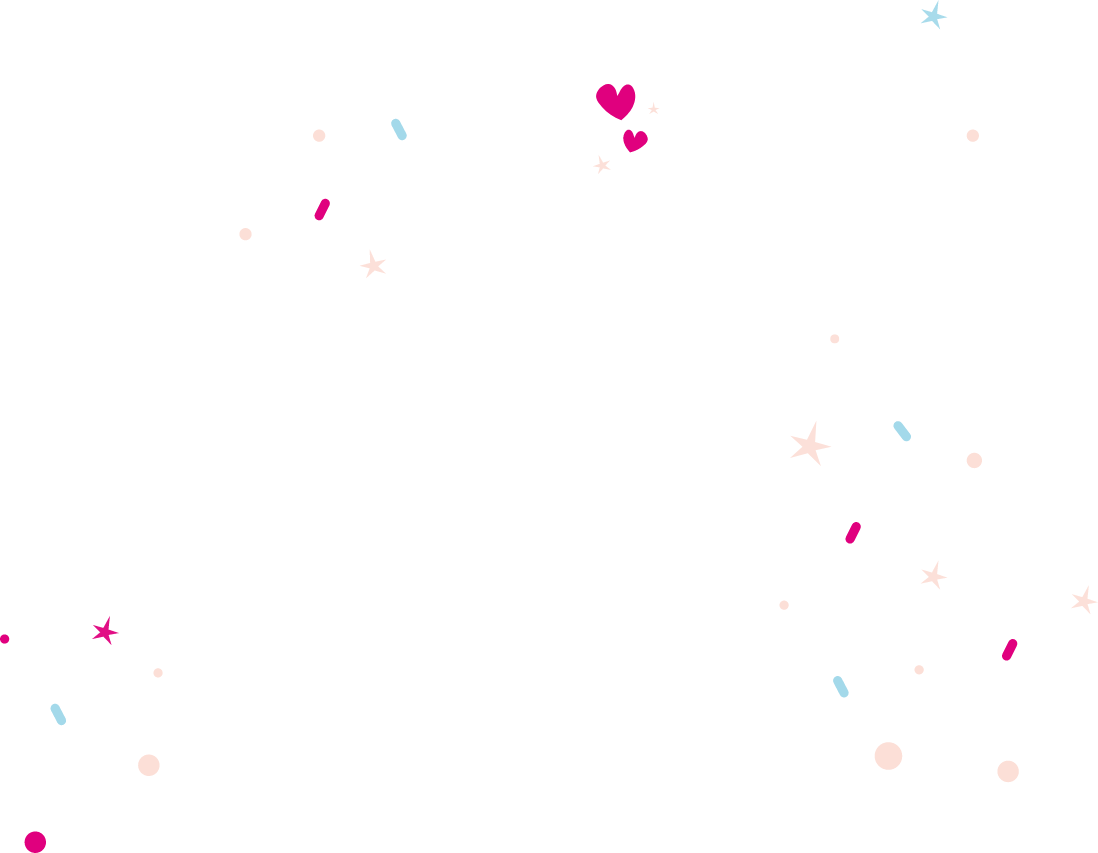
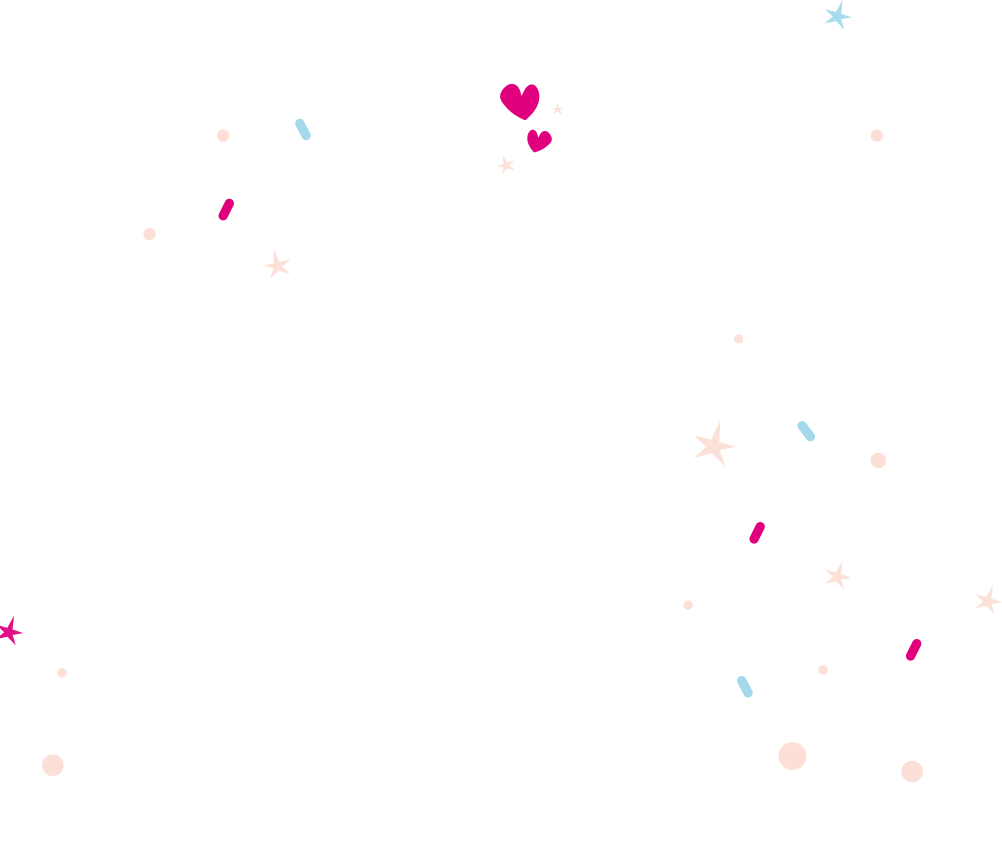
sdfsd

diff --git a/resources/sass/page/_landing.scss b/resources/sass/page/_landing.scss
@@ -421,8 +421,8 @@
             .l-wrapper__bg {
                 background-image: url("../../../public/img/bg.png");
                 background-repeat: no-repeat;
-                background-position: -8.5% 49%;
-                background-size: auto;
+                background-position: 0.5% 12%;
+                background-size: 55%;
                 width: 100%;
                 .l-types__wrapper {
                     position: relative;

diff --git a/public/css/app.css b/public/css/app.css
@@ -10414,8 +10414,8 @@ body .l-types__reading {
 body .l-types__reading .l-wrapper__bg {
   background-image: url(/images/bg.png?f125c381c34ae02325db2734a766a598);
   background-repeat: no-repeat;
-  background-position: -8.5% 49%;
-  background-size: auto;
+  background-position: 0.5% 12%;
+  background-size: 55%;
   width: 100%;
 }
 body .l-types__reading .l-wrapper__bg .l-types__wrapper {
